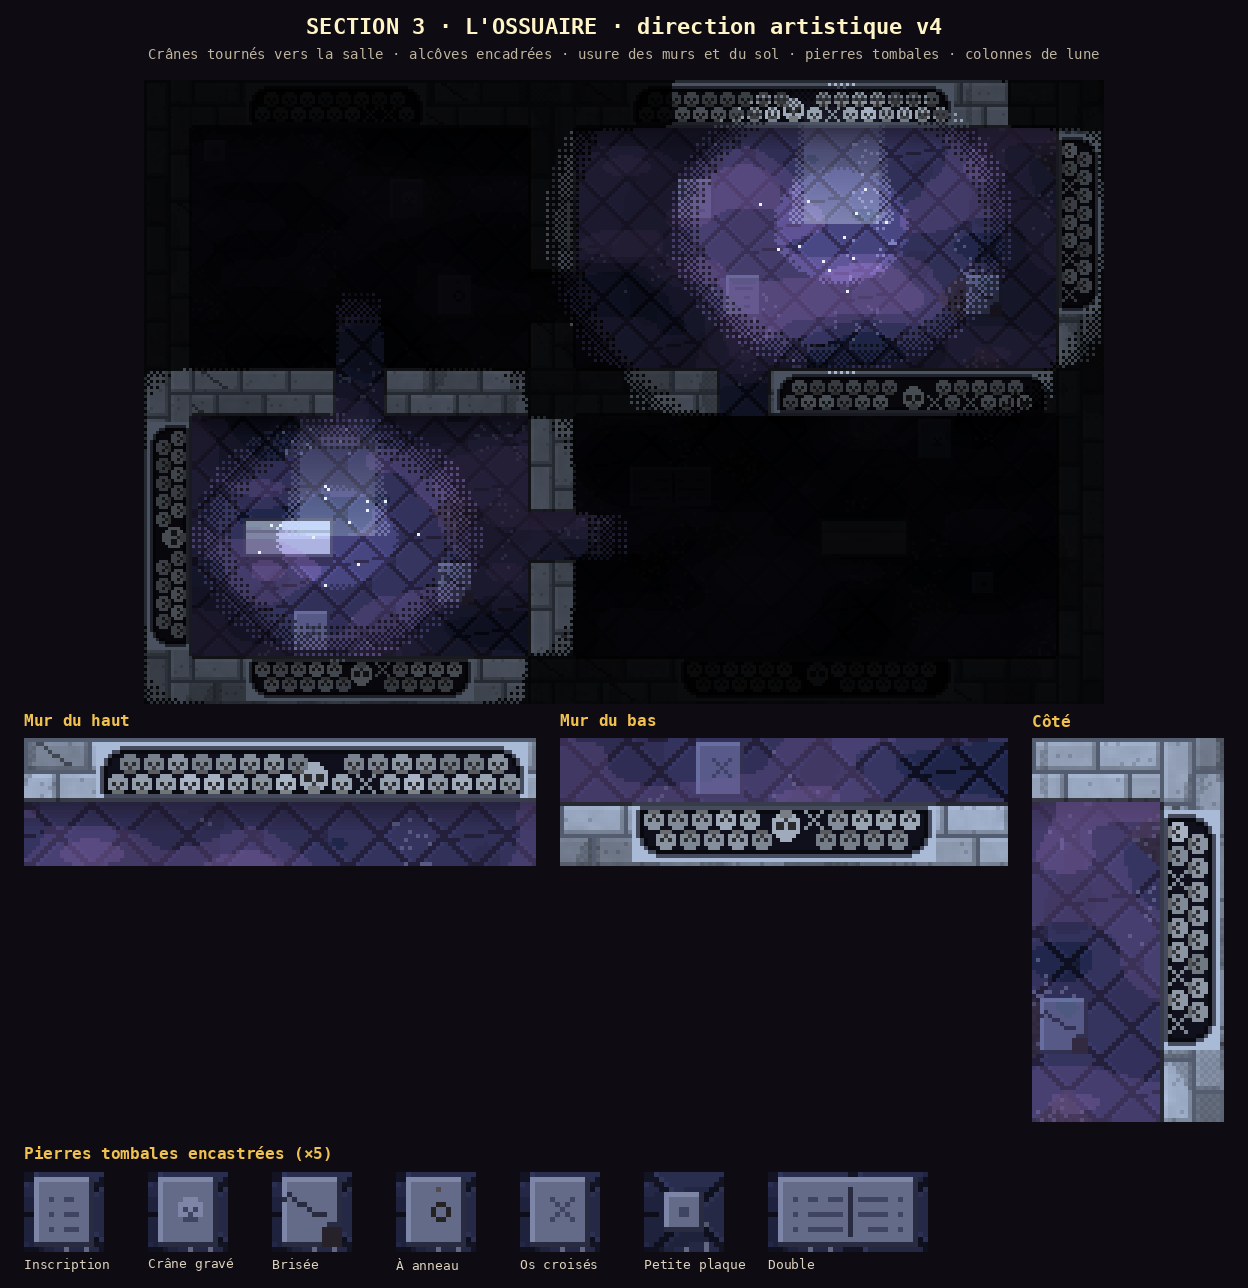
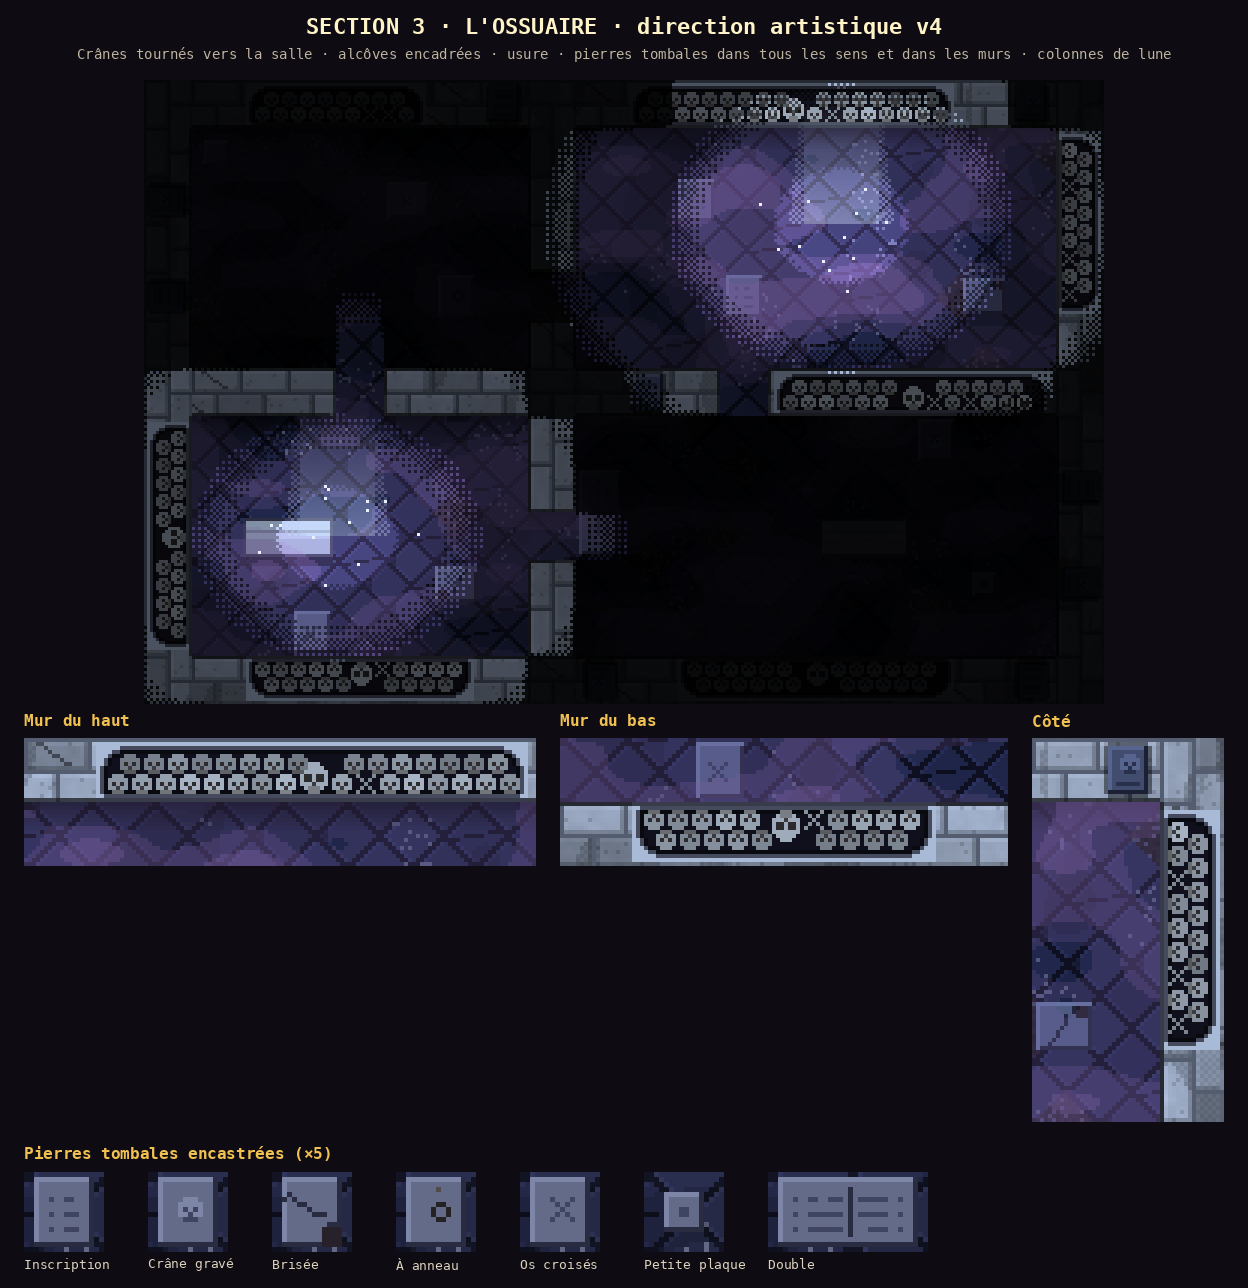
Ossuaire v4 : pierres tombales dans les 4 sens, plaques funéraires dans les murs
Claude-Session: https://claude.ai/code/session_01TLwcm2eofnSYjAtsLj84z7

diff --git a/art/ossuaire_da_v4.py b/art/ossuaire_da_v4.py
@@ -1,4 +1,4 @@
-"""Section 3, l'OSSUAIRE DE LA LUNE PÂLE : direction artistique v4 (Thomas, 2026-11-19, 8 h 35 : « ok fonce, je valide
+"""Section 3, l'OSSUAIRE DE LA LUNE PÂLE : direction artistique v4 (Thomas, 2026-11-19, 8 h 35 ; puis 8 h 43 : « diversifie l'orientation des pierres tombales à 360 degrés ; insère-en dans les murs » : « ok fonce, je valide
 tout sauf le 2 [bordure de dalles droites] ; diversifie les pierres tombales dans le sol ; revois la fine rangée de
 pierre au bas des alcôves, elle semble terminer au mauvais endroit ; ajoute de l'usure au sol aussi »). PROPOSITION,
 rien n'est en jeu.
@@ -49,7 +49,7 @@ ALCOVES = [("S", (2, 0), (5, 0)), ("S", (10, 0), (16, 0)), ("S", (13, 6), (18, 6
            ("W", (19, 1), (19, 4)), ("E", (0, 7), (0, 11)), ("N", (11, 12), (16, 12))]
 SARCOS = [(2, 9), (14, 9)]
 # Pierres tombales encastrées dans le sol : (case x, case y, sorte)
-TOMBS = [(11, 2, "ins"), (5, 2, "crane"), (17, 4, "brisee"), (6, 4, "anneau"), (10, 8, "double"), (3, 11, "os"),
+TOMBS = [(11, 2, "ins"), (5, 2, "crane"), (17, 4, "brisee"), (6, 4, "anneau"), (9, 8, "double"), (3, 11, "os"),
          (17, 10, "petite"), (1, 1, "petite"), (12, 4, "ins"), (6, 10, "brisee"), (16, 7, "crane")]
 
 
@@ -358,6 +358,62 @@ def tomb(a, cx, cy, kind):
         r[3:5, 3:5] = CARVE
 
 
+def tomb_turned(a, cx, cy, kind, k):
+    """La pierre tombale tournée d'un quart de tour k fois (0 à 3) ; la lumière reste en haut à gauche."""
+    buf = np.full((T, 2 * T, 3), -1.0)
+    tomb(buf, 0, 0, kind)
+    m = buf[..., 0] >= 0
+    if kind != "double":
+        buf, m = buf[:, :T], m[:, :T]
+    buf, m = np.rot90(buf, k), np.rot90(m, k)
+    # relief : arête claire en haut et à gauche, sombre en bas et à droite, quelle que soit l'orientation
+    up_ = m & ~np.roll(m, 1, 0)
+    lf = m & ~np.roll(m, 1, 1)
+    dn = m & ~np.roll(m, -1, 0)
+    rt = m & ~np.roll(m, -1, 1)
+    buf[dn | rt] = STONE_D
+    buf[up_ | lf] = STONE_HI
+    hh, ww = m.shape
+    region = a[cy * T:cy * T + hh, cx * T:cx * T + ww]
+    region[m] = buf[m]
+
+
+TABLET, TABLET_HI, TABLET_D, TABLET_C = np.array((92, 94, 110)), np.array((122, 124, 140)), np.array((40, 40, 52)), np.array((58, 60, 76))
+
+
+def wall_tablet(a, side, cx, cy, variant):
+    """Plaque funéraire scellée dans un mur, tournée vers la salle (les lignes du texte suivent le mur)."""
+    buf = np.full((T, T, 3), -1.0)
+    x0, y0, w, h = 3, 2, 10, 12
+    buf[y0:y0 + h, x0:x0 + w] = TABLET
+    buf[y0, x0:x0 + w] = TABLET_HI
+    buf[y0:y0 + h, x0] = TABLET_HI
+    buf[y0 + h - 1, x0:x0 + w] = TABLET_D
+    buf[y0:y0 + h, x0 + w - 1] = TABLET_D
+    if variant == 0:
+        for yy in (5, 8, 11):
+            buf[yy, x0 + 2:x0 + w - 2] = TABLET_C
+    else:
+        g = np.array([list(q) for q in SKULL])
+        for dy in range(5):
+            for dx in range(5):
+                if g[dy, dx] != ".":
+                    buf[y0 + 2 + dy, x0 + 3 + dx] = TABLET_C if g[dy, dx] in "onj" else TABLET_HI
+        buf[y0 + 9, x0 + 2:x0 + w - 2] = TABLET_C
+    k = {"S": 0, "N": 2, "W": 3, "E": 1}[side]
+    buf = np.rot90(buf, k)
+    m = buf[..., 0] >= 0
+    region = a[cy * T:(cy + 1) * T, cx * T:(cx + 1) * T]
+    region[m] = buf[m]
+    # liseré de scellement autour de la plaque
+    ring = ~m & (np.roll(m, 1, 0) | np.roll(m, -1, 0) | np.roll(m, 1, 1) | np.roll(m, -1, 1))
+    region[ring] = region[ring] * 0.55
+
+
+WALL_TABLETS = [("S", 7, 0, 0), ("S", 18, 0, 1), ("S", 10, 6, 0), ("N", 9, 12, 1), ("N", 18, 12, 0), ("W", 19, 8, 0),
+                ("W", 19, 10, 1), ("E", 0, 2, 1), ("E", 0, 4, 0)]
+
+
 def light_map(xs, ys):
     """La lune seule : chaque puits éclaire autour de lui, jusqu'aux murs (pas à travers)."""
     cell_lit = np.zeros((PH, PW))
@@ -404,7 +460,9 @@ def main_room(flat=False):
     for s in SARCOS:
         sarcophagus(a, *s)
     for (cx, cy, k) in TOMBS:
-        tomb(a, cx, cy, k)
+        tomb_turned(a, cx, cy, k, int(hash2(cx, cy, 93) * 4))
+    for (side, cx, cy, v) in WALL_TABLETS:
+        wall_tablet(a, side, cx, cy, v)
     # lumière
     I = np.zeros((H, W))
     pools = np.zeros((H, W))
@@ -469,7 +527,7 @@ def main():
     sheet = Image.new("RGB", (Wb, Hb), (14, 12, 18))
     d = ImageDraw.Draw(sheet)
     d.text((Wb // 2, 26), "SECTION 3 · L'OSSUAIRE · direction artistique v4", fill=(255, 243, 200), font=font(22), anchor="mm")
-    d.text((Wb // 2, 54), "Crânes tournés vers la salle · alcôves encadrées · usure des murs et du sol · pierres tombales · colonnes de lune", fill=(190, 180, 160), font=font(14, False), anchor="mm")
+    d.text((Wb // 2, 54), "Crânes tournés vers la salle · alcôves encadrées · usure · pierres tombales dans tous les sens et dans les murs · colonnes de lune", fill=(190, 180, 160), font=font(14, False), anchor="mm")
     sheet.paste(room, ((Wb - room.width) // 2, 80))
     x = pad
     y = 80 + room.height + 34
